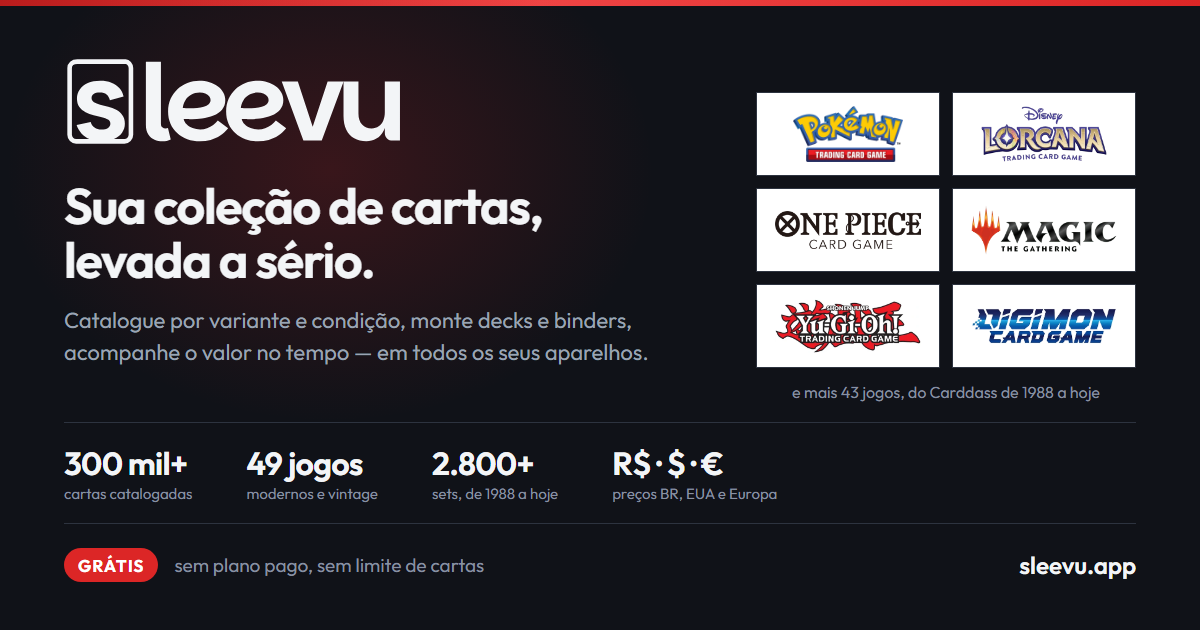
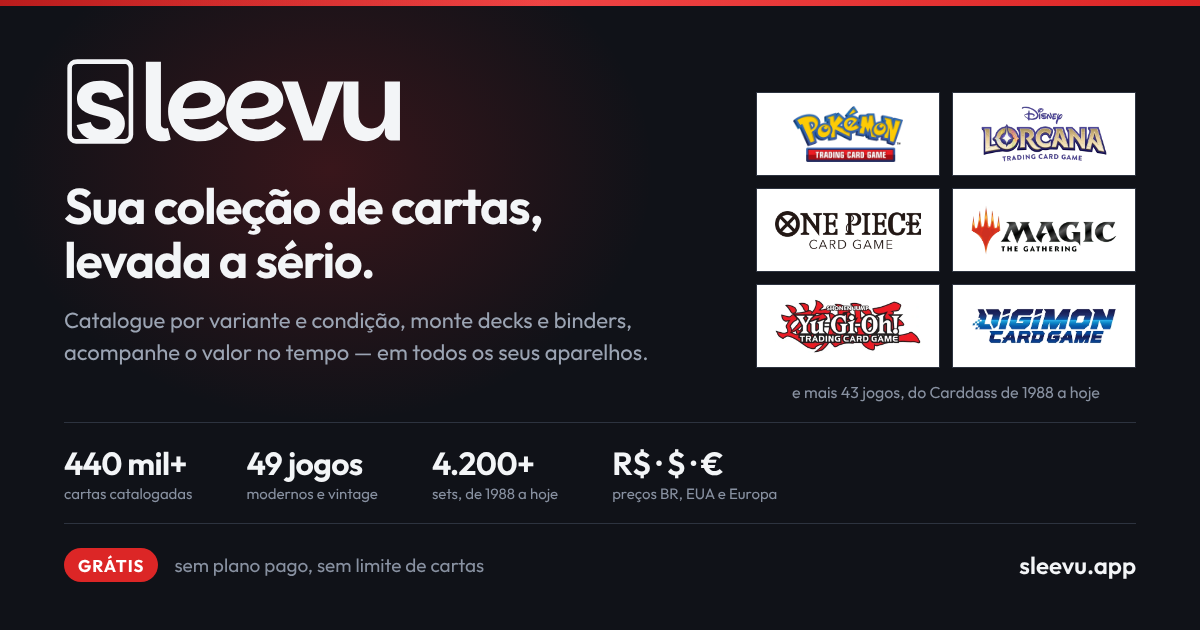
Home: números do catálogo recontados (440.000+ cartas e 4.200+ sets) (#385)
A faixa "Sleevu em números" ainda mostrava a conta de 01/10 (300.000+
cartas, 2.800+ sets). O lint-catalog de 25/11 dá 446.114 cartas e 4.294
sets nos 49 jogos; arredondado pra baixo, pro "+" continuar verdade:
440.000+ e 4.200+. Jogos (49) e "de 1988 a hoje" seguem certos.

Muda junto nos três lugares que o admin-charts.test amarra: a home, o
og-image (HTML e PNG regerado) e o KIT_CATALOGO do kit de parceiros. O
textos-da-borda.test passa a conferir o formato pt do número, não o
valor, pra próxima recontagem não quebrar o teste à toa.

Claude-Session: https://claude.ai/code/session_01SevLenyyCHaYiRpXqGkDQA

diff --git a/index.html b/index.html
@@ -219,13 +219,17 @@
              Arena, 13º jogo: +6.485 cartas e +72 sets. Em 2026-10-01, com o Weiß
              Schwarz (21º jogo, +31.209 cartas e +169 sets), o recontado deu
              ~320 mil cartas e ~2.880 sets (régua do lint-catalog + Pokémon de
-             produção): 300.000+ e 2.800+. Ao recontar: soma dos
+             produção): 300.000+ e 2.800+. Em 2026-11-25, com 49 jogos
+             (Vanguard, Duel Masters, Shadowverse, as linhas do Naruto…), o
+             lint-catalog deu 446.114 cartas e 4.294 sets: 440.000+ e
+             4.200+ (arredondado pra baixo, pro "+" ser verdade). O mais
+             antigo segue sendo o Carddass de 1988. Ao recontar: soma dos
              lint-catalog + manifest do Pokémon em produção — e mude também o
              og-image (scripts/og/og-image.html) e o KIT_CATALOGO do kit de
              parceiros (src/admin.js); o tests/admin-charts.test.mjs cobra. -->
-        <div class="lp-stat"><strong>300.000+</strong><span data-i18n="home.lp.statCards">cartas catalogadas</span></div>
+        <div class="lp-stat"><strong>440.000+</strong><span data-i18n="home.lp.statCards">cartas catalogadas</span></div>
         <div class="lp-stat"><strong>49</strong><span data-i18n="home.lp.statGames">jogos — modernos e vintage</span></div>
-        <div class="lp-stat"><strong>2.800+</strong><span data-i18n="home.lp.statSets">sets, de 1988 a hoje</span></div>
+        <div class="lp-stat"><strong>4.200+</strong><span data-i18n="home.lp.statSets">sets, de 1988 a hoje</span></div>
         <div class="lp-stat"><strong>R$ · $ · €</strong><span data-i18n="home.lp.statPrices">preços BR, EUA e Europa</span></div>
       </section>
 

diff --git a/scripts/og/og-image.html b/scripts/og/og-image.html
@@ -125,9 +125,9 @@
       </div>
       <div>
         <div class="stats">
-          <div><strong>300 mil+</strong><span>cartas catalogadas</span></div>
+          <div><strong>440 mil+</strong><span>cartas catalogadas</span></div>
           <div><strong>49 jogos</strong><span>modernos e vintage</span></div>
-          <div><strong>2.800+</strong><span>sets, de 1988 a hoje</span></div>
+          <div><strong>4.200+</strong><span>sets, de 1988 a hoje</span></div>
           <div><strong>R$ · $ · €</strong><span>preços BR, EUA e Europa</span></div>
         </div>
       </div>

diff --git a/src/admin.js b/src/admin.js
@@ -1283,7 +1283,7 @@
   //
   // Números do CATÁLOGO: os mesmos da .lp-stats da home (index.html) e do
   // og-image (scripts/og/og-image.html). Ao recontar, mude nos três lugares.
-  const KIT_CATALOGO = { cartas: "300 mil+", sets: "2.800+" };
+  const KIT_CATALOGO = { cartas: "440 mil+", sets: "4.200+" };
   // Logos dos jogos: o mesmo mapa do src/app.js (que o admin não carrega).
   const KIT_LOGO = {
     pokemon: "game_pokemon.webp", lorcana: "game_lorcana-v2.webp", onepiece: "game_onepiece.webp",
